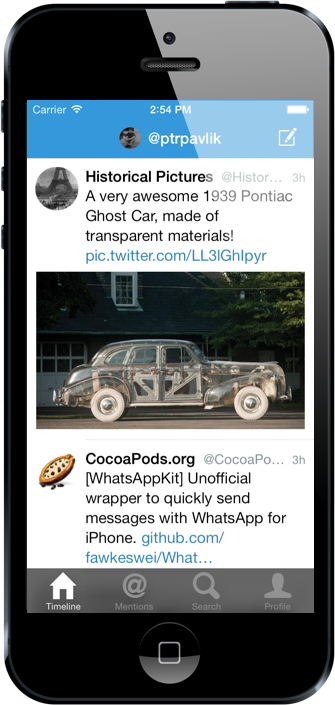
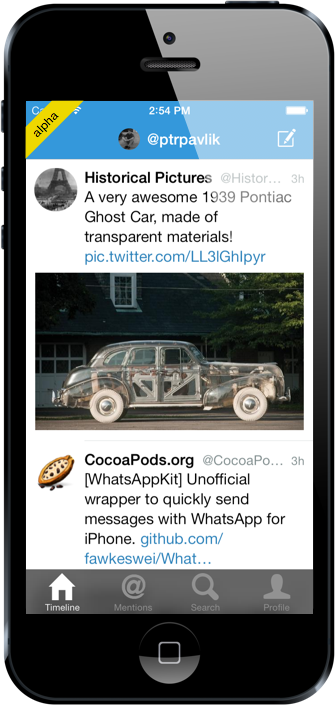
update iPhone img, replace domain in GA

diff --git a/index.html b/index.html
@@ -20,8 +20,9 @@
 	  m=s.getElementsByTagName(o)[0];a.async=1;a.src=g;m.parentNode.insertBefore(a,m)
 	  })(window,document,'script','//www.google-analytics.com/analytics.js','ga');
 	
-	  ga('create', 'UA-42594126-1', 'azurewebsites.net');
-	  ga('send', 'pageview');	
+	  ga('create', 'UA-42594126-1', 'tweetilus.com');
+	  ga('send', 'pageview');
+	
   </script>
 
 </head>
